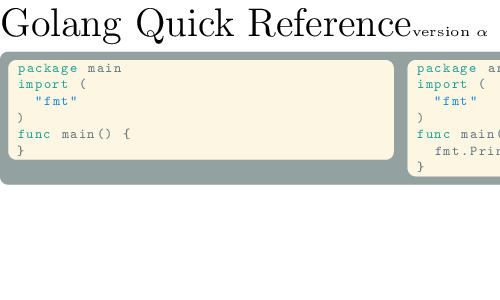
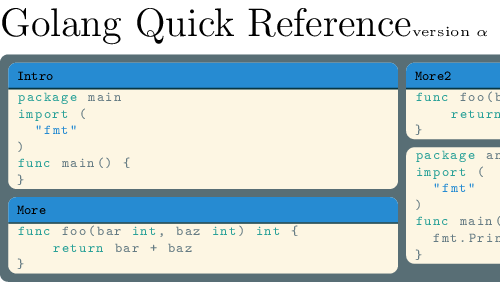
layout tweaks and warning resolutions

diff --git a/golang-ref-sheet.tex b/golang-ref-sheet.tex
@@ -22,9 +22,8 @@
 \usepackage[framemethod=tikz]{mdframed}
 \usepackage[export]{adjustbox} %To  justify images
 % Frame/box definitions
-\newmdenv[backgroundcolor=sbase1,linewidth=0pt, roundcorner=3pt, innerleftmargin=3pt, innerrightmargin=3pt, innertopmargin=3pt, innerbottommargin=3pt, leftmargin=0pt, rightmargin=0pt, skipabove=0pt, skipbelow=0pt]{pagebox}
-\definecolor{codeboxbordercolor}{rgb}{0, 0, 0}
-\newmdenv[backgroundcolor=sbase3,linewidth=0pt, roundcorner=3pt, linecolor=codeboxbordercolor, innerleftmargin=3pt, innerrightmargin=0pt, innertopmargin=0pt, innerbottommargin=0pt]{codebox}
+\newmdenv[backgroundcolor=sbase01,linewidth=0pt, roundcorner=3pt, innerleftmargin=3pt, innerrightmargin=3pt, innertopmargin=3pt, innerbottommargin=3pt, leftmargin=0pt, rightmargin=0pt, skipabove=0pt, skipbelow=0pt]{pagebox}
+\newmdenv[backgroundcolor=sbase3,linewidth=0pt, roundcorner=3pt, linecolor=sbase02, innerleftmargin=3pt, innerrightmargin=0pt, innertopmargin=0pt, innerbottommargin=0pt, skipbelow=3pt, frametitleaboveskip=3pt, frametitlebelowskip=3pt, frametitlerule=true, frametitlerulewidth=0.5pt, frametitlebackgroundcolor=sblue, subtitlebackgroundcolor=sblue, frametitlefont=\tiny\tt, subtitlefont=\tiny\tt, subtitleaboveline=true, subtitlebelowline=true, subtitleabovelinewidth=0.5pt, subtitlebelowlinewidth=0.5pt]{codebox}
 \begin{document}\noindent
 \begin{minipage}{.5\textwidth}
 \Large{Golang Quick Reference}\tiny{version $\alpha$}
@@ -33,13 +32,14 @@
 \begin{adjustbox}{right}
 \includegraphics[width=0.5cm]{./figures/gopher.eps}%
 \end{adjustbox}%
-\end{minipage}%
-\tiny%
+\end{minipage} \\
+\begin{minipage}{\textwidth}
+\tt\tiny%
 \begin{pagebox}
 \setlength\multicolsep{0pt}%
-\setlength\columnsep{5pt}%
+\setlength\columnsep{3pt}%
 \begin{multicols}{4}
-\begin{codebox}
+\begin{codebox}[frametitle={Intro}]
 \begin{lstlisting}[language=go]
 package main
 import (
@@ -49,7 +49,20 @@ func main() {
 }
 \end{lstlisting}
 \end{codebox}
-
+\begin{codebox}[frametitle={More}]
+\begin{lstlisting}[language=go]
+func foo(bar int, baz int) int {
+    return bar + baz
+}
+\end{lstlisting}
+\end{codebox}
+\begin{codebox}[frametitle={More2}]
+\begin{lstlisting}[language=go]
+func foo(bar int, baz int) int {
+    return bar + baz
+}
+\end{lstlisting}
+\end{codebox}
 \begin{codebox}
 \begin{lstlisting}[language=go]
 package anothermain
@@ -61,6 +74,7 @@ func main() {
 }
 \end{lstlisting}
 \end{codebox}
+\vfill
 \columnbreak
 \begin{codebox}
 \begin{lstlisting}[language=go]
@@ -87,4 +101,5 @@ func main() {
 \end{codebox}
 \end{multicols}
 \end{pagebox}
+\end{minipage}
 \end{document}

diff --git a/theme/solarized-light.tex b/theme/solarized-light.tex
@@ -9,7 +9,7 @@
     %frame=lines,
     % Extra margin on line (align with paragraph)
     %xleftmargin=\parindent,
-    belowcaptionskip=1\baselineskip,
+    %belowcaptionskip=1\baselineskip,
     aboveskip=0pt,
     belowskip=0pt,
     % Colors
